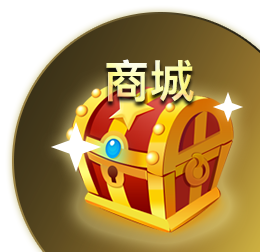
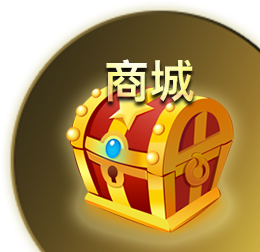
首页添加动画

diff --git a/src/views/home/home.less b/src/views/home/home.less
@@ -1,6 +1,43 @@
+@keyframes move {
+    0% {
+        left: -7.333333rem;
+    }
+   
+    100% {
+      left: 20rem;
+    }
+  }
+
+  @keyframes star {
+    0% {
+      -webkit-transform: scale(0.5);
+      transform: scale(0.5);
+      opacity: 0.4;
+    }
+    60% {
+      -webkit-transform: scale(1.5);
+      transform: scale(1.5);
+      opacity: 1;
+    }
+    70% {
+      -webkit-transform: scale(1.5);
+      transform: scale(1.5);
+      opacity: 1;
+    }
+    80% {
+      -webkit-transform: scale(1);
+      transform: scale(1);
+      opacity: 0.8;
+    }
+    100% {
+      -webkit-transform: scale(0.6);
+      transform: scale(0.6);
+      opacity: 0.6;
+    }
+  }
 .home {
-    width: 100%;
-    height: 100%;
+    width: 17.786667rem;
+    height: 10rem;
     background: url("../../images/background.png") no-repeat center/cover;
 
     .header {
@@ -130,6 +167,15 @@
         bottom: 0;
         z-index: 10;
 
+        .footer-light{
+            position: relative;
+            left: -1.333333rem;
+            width: 10.333333rem;
+            height: .1rem;
+            background-image:radial-gradient(5rem at center,#fff39b ,transparent);
+            animation: 4s 2s move infinite;
+        }
+
         .footer-container {
             width: 100%;
             height: 100%;
@@ -213,6 +259,24 @@
                 .shopping {
                     width: 100%;
                     height: 100%;
+                }
+                .star{
+                  width: .733333rem;
+                  height: .733333rem;
+                  position: absolute;
+                  bottom: .6rem;
+                  right: 1.3rem;
+                  background: url("../../images/star.png") no-repeat center/cover;
+                  animation: star 3s 0.2s infinite cubic-bezier(0.2, 0.68, 0.18, 1.08);
+                }
+                .star-small{
+                  width: .56rem;
+                  height: .56rem;
+                  position: absolute;
+                  bottom: 1rem;
+                  right: 0;
+                  background: url("../../images/star_small.png") no-repeat center/cover;
+                  animation: star 3s 2s infinite cubic-bezier(0.2, 0.68, 0.18, 1.08);
                 }
             }
             

diff --git a/src/views/home/home.vue b/src/views/home/home.vue
@@ -37,6 +37,7 @@
     </div>
 
     <div class="footer">
+        <div class="footer-light"></div>
         <div class="footer-container">
             <div class="account">
                 <!-- 头像和手机号 -->
@@ -55,7 +56,9 @@
 
             <!-- 右下角宝箱 -->
             <div class="chest">
+                <div class="star"></div>
                 <img src="../../images/shopping.png" class="shopping">
+                <div class="star-small"></div>
             </div>
         </div>
     </div>

diff --git a/src/views/tipModal/errorTip.vue b/src/views/tipModal/errorTip.vue
@@ -16,8 +16,8 @@ export default {
 
 <style lang="less">
 .error-tip{
-    width: 100%;
-    height: 100%;
+    width: 17.786667rem;
+    height: 10rem;
     background: rgba(0, 0, 0, 0.4) url("../../images/bg_error.png") no-repeat center;
     background-size: 6.906667rem 2.373333rem;
     .error-tip-warpper{

diff --git a/src/views/tipModal/systemTip.vue b/src/views/tipModal/systemTip.vue
@@ -18,8 +18,8 @@ export default {
 
 <style lang="less">
 .system-tip{
-    width: 100%;
-    height: 100%;
+    width: 17.786667rem;
+    height: 10rem;
     background: rgba(0, 0, 0, 0.4) url("../../images/bg_system.png") no-repeat center;
     background-size: 12.8rem 6.6rem;
     .system-tip-warpper{

diff --git a/src/views/tipModal/rechargeAgreement.vue b/src/views/tipModal/rechargeAgreement.vue
@@ -23,8 +23,8 @@ export default {};
 
 <style lang="less">
 .agreement {
-  width: 100%;
-  height: 100%;
+  width: 17.786667rem;
+  height: 10rem;
   background: rgba(0, 0, 0, 0.4) url("../../images/bg_agreement.png") no-repeat
     center;
   background-size: 12.786667rem 8.093333rem;

diff --git a/src/views/loading/loadingYyl.vue b/src/views/loading/loadingYyl.vue
@@ -18,8 +18,8 @@ export default {
 </script>
 <style lang="less">
 .loading-yyl {
-  width: 100%;
-  height: 100%;
+  width: 17.786667rem;
+  height: 10rem;
   background: url("../../images/background.png") no-repeat center/cover;
   position: relative;
   .yyl-avater{

diff --git a/src/views/loading/loadingGame.vue b/src/views/loading/loadingGame.vue
@@ -35,8 +35,8 @@ export default {
   }
 }
 .loading-game {
-  width: 100%;
-  height: 100%;
+  width: 17.786667rem;
+  height: 10rem;
   background: url("../../images/background.png") no-repeat center/cover;
   position: relative;
   .title {
